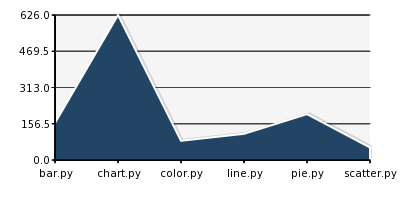
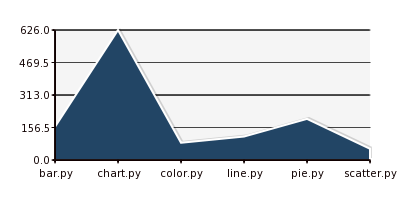
Big refactor about how the colors scheme are created and used. See #29

Changed region(s): [[0.03, 0.03, 0.93, 0.75], [0.03, 0.6, 0.15, 0.66]]

diff --git a/tests/color.py b/tests/color.py
@@ -1,4 +1,5 @@
-# Copyright (c) 2007-2008 by Lorenzo Gil Sanchez <lorenzo.gil.sanchez@gmail.com>
+# Copyright(c) 2007-2008 by Lorenzo Gil Sanchez <lorenzo.gil.sanchez@gmail.com>
+#              2009 by Yaco S.L. <lgs@yaco.es>
 #
 # This file is part of PyCha.
 #
@@ -18,6 +19,11 @@
 import unittest
 
 import pycha.color
+
+
+class SimpleColorScheme(pycha.color.ColorScheme):
+    pass
+
 
 class ColorTests(unittest.TestCase):
 
@@ -62,27 +68,25 @@ class ColorTests(unittest.TestCase):
         for i in range(3):
             self.assertAlmostEqual(c1[i], c2[i], precission)
 
-    def test_generateColorscheme(self):
-        keys = ('k1', 'k2', 'k3', 'k4')
-        color = '#ff0000'
-        scheme = pycha.color.generateColorscheme(color, keys)
-
-        self._assertColors(scheme['k1'], (1, 0, 0), 3)
-        self._assertColors(scheme['k2'], (1, 0.125, 0.125), 3)
-        self._assertColors(scheme['k3'], (1, 0.250, 0.250), 3)
-        self._assertColors(scheme['k4'], (1, 0.375, 0.375), 3)
-
-    def test_defaultColorScheme(self):
-        keys = ('k1', 'k2', 'k3', 'k4')
-        scheme1 = pycha.color.defaultColorscheme(keys)
-        color = pycha.color.DEFAULT_COLOR
-        scheme2 = pycha.color.generateColorscheme(color, keys)
-        self.assertEqual(scheme1, scheme2)
-
-    def test_colorScheme(self):
+    def test_basicColors(self):
         colors = ('red', 'green', 'blue', 'grey', 'black', 'darkcyan')
         for color in colors:
-            self.assert_(pycha.color.colorSchemes.has_key(color))
+            self.assert_(color in pycha.color.basicColors)
+
+    def test_ColorSchemeRegistry(self):
+        self.assertEquals(SimpleColorScheme,
+                          pycha.color.ColorScheme.getColorScheme('simple'))
+        self.assertEquals(None,
+                          pycha.color.ColorScheme.getColorScheme('foo'))
+
+    def test_GradientColorScheme(self):
+        keys = range(5)
+        scheme = pycha.color.GradientColorScheme(keys, "000000")
+        self._assertColors(scheme[0], (0.0, 0.0, 0.0), 3)
+        self._assertColors(scheme[1], (0.1, 0.1, 0.1), 3)
+        self._assertColors(scheme[2], (0.2, 0.2, 0.2), 3)
+        self._assertColors(scheme[3], (0.3, 0.3, 0.3), 3)
+        self._assertColors(scheme[4], (0.4, 0.4, 0.4), 3)
 
     def test_autoLighting(self):
         """This test ensures that the colors don't get to white too fast.
@@ -93,18 +97,22 @@ class ColorTests(unittest.TestCase):
         n = 50
         keys = range(n)
         color = '#ff0000'
-        scheme = pycha.color.generateColorscheme(color, keys)
+        scheme = pycha.color.GradientColorScheme(keys, color)
 
         # ensure that the last color is not completely white
         color = scheme[n-1]
-        self.assertAlmostEqual(color[0], 1.0, 4) # the red component was already 1
+
+        # the red component was already 1
+        self.assertAlmostEqual(color[0], 1.0, 4)
         self.assertNotAlmostEqual(color[1], 1.0, 4)
         self.assertNotAlmostEqual(color[2], 1.0, 4)
+
 
 def test_suite():
     return unittest.TestSuite((
         unittest.makeSuite(ColorTests),
     ))
+
 
 if __name__ == '__main__':
     unittest.main(defaultTest='test_suite')

diff --git a/pycha/color.py b/pycha/color.py
@@ -1,4 +1,5 @@
 # Copyright(c) 2007-2009 by Lorenzo Gil Sanchez <lorenzo.gil.sanchez@gmail.com>
+#              2009 by Yaco S.L. <lgs@yaco.es>
 #
 # This file is part of PyCha.
 #
@@ -52,35 +53,7 @@ def lighten(r, g, b, amount):
             clamp(0.0, 1.0, b + amount))
 
 
-def generateColorscheme(masterColor, keys):
-    """Generates a dictionary where the keys match the keys argument and
-    the values are colors derivated from the masterColor.
-
-    Each color is a lighter version of masterColor. This difference is
-    computed based on the number of keys.
-
-    The masterColor is given in a hex string format.
-    """
-    r, g, b = hex2rgb(masterColor)
-    light = 1.0 / (len(keys)*2)
-    return dict([(key, lighten(r, g, b, light * i))
-                 for i, key in enumerate(keys)])
-
-
-def defaultColorscheme(keys):
-    """Return the default color scheme (derived from a dark green)"""
-    return generateColorscheme(DEFAULT_COLOR, keys)
-
-
-def getColorscheme(color, keys):
-    """Get a color scheme from the six predefined ones or makes another
-    one if the color is not found
-    """
-    return generateColorscheme(colorSchemes.get(color, color), keys)
-
-
-# default colors for color schemes
-colorSchemes = dict(
+basicColors = dict(
     red='#6d1d1d',
     green=DEFAULT_COLOR,
     blue='#224565',
@@ -88,3 +61,53 @@ colorSchemes = dict(
     black='#000000',
     darkcyan='#305755',
     )
+
+
+class ColorSchemeMetaclass(type):
+    """This metaclass is used to autoregister all ColorScheme classes"""
+
+    def __new__(mcs, name, bases, dict):
+        klass = type.__new__(mcs, name, bases, dict)
+        klass.registerColorScheme()
+        return klass
+
+
+class ColorScheme(dict):
+    """A color scheme is a dictionary where the keys match the keys
+    constructor argument and the values are colors"""
+
+    __metaclass__ = ColorSchemeMetaclass
+    __registry__ = {}
+
+    def __init__(self, keys):
+        super(ColorScheme, self).__init__()
+
+    @classmethod
+    def registerColorScheme(cls):
+        key = cls.__name__.replace('ColorScheme', '').lower()
+        if key:
+            cls.__registry__[key] = cls
+
+    @classmethod
+    def getColorScheme(cls, name, default=None):
+        return cls.__registry__.get(name, default)
+
+
+class GradientColorScheme(ColorScheme):
+    """In this color scheme each color is a lighter version of initialColor.
+
+    This difference is computed based on the number of keys.
+
+    The initialColor is given in a hex string format.
+    """
+
+    def __init__(self, keys, initialColor=DEFAULT_COLOR):
+        super(GradientColorScheme, self).__init__(keys)
+        if initialColor in basicColors:
+            initialColor = basicColors[initialColor]
+
+        r, g, b = hex2rgb(initialColor)
+        light = 1.0 / (len(keys) * 2)
+
+        for i, key in enumerate(keys):
+            self[key] = lighten(r, g, b, light * i)

diff --git a/pycha/chart.py b/pycha/chart.py
@@ -20,8 +20,7 @@ import math
 
 import cairo
 
-from pycha.color import (defaultColorscheme, getColorscheme, hex2rgb,
-                         DEFAULT_COLOR)
+from pycha.color import ColorScheme, hex2rgb, DEFAULT_COLOR
 
 
 class Chart(object):
@@ -55,6 +54,8 @@ class Chart(object):
 
         # initialize the surface
         self._initSurface(surface)
+
+        self.colorScheme = None
 
     def addDataset(self, dataset):
         """Adds an object containing chart data to the storage hash"""
@@ -112,18 +113,17 @@ class Chart(object):
         cx.restore()
 
     def _setColorscheme(self):
-        """Sets the colorScheme used for the chart using the color in the
+        """Sets the colorScheme used for the chart using the
         options.colorScheme option
         """
-        scheme = self.options.colorScheme
+        name = self.options.colorScheme.name
         keys = self._getDatasetsKeys()
-        if isinstance(scheme, dict):
-            if not scheme:
-                self.options.colorScheme = defaultColorscheme(keys)
-        elif isinstance(scheme, basestring):
-            self.options.colorScheme = getColorscheme(scheme, keys)
-        else:
-            raise TypeError("Color scheme is invalid!")
+        colorSchemeClass = ColorScheme.getColorScheme(name, None)
+        if colorSchemeClass is None:
+            raise ValueError('Color scheme is invalid!')
+
+        kwargs = dict(self.options.colorScheme.args)
+        self.colorScheme = colorSchemeClass(keys, **kwargs)
 
     def _initSurface(self, surface):
         self.surface = surface
@@ -551,7 +551,7 @@ class Chart(object):
 
         def drawKey(key, x, y, text_height):
             cx.rectangle(x, y, bullet, bullet)
-            cx.set_source_rgb(*self.options.colorScheme[key])
+            cx.set_source_rgb(*self.colorScheme[key])
             cx.fill_preserve()
             cx.set_source_rgb(0, 0, 0)
             cx.stroke()
@@ -669,7 +669,10 @@ DEFAULT_OPTIONS = Option(
     shouldFill=True,
     barWidthFillFraction=0.75,
     pieRadius=0.4,
-    colorScheme=DEFAULT_COLOR,
+    colorScheme=Option(
+        name='gradient',
+        args=Option(initialColor=DEFAULT_COLOR),
+    ),
     title=None,
     titleFont='Tahoma',
     titleFontSize=12,

diff --git a/tests/chart.py b/tests/chart.py
@@ -132,21 +132,19 @@ class ChartTests(unittest.TestCase):
         self.assertEqual(ch.resetFlag, True)
 
     def test_colorscheme(self):
-        ch = pycha.chart.Chart(None, {'colorScheme': '#000000'})
+        options = {'colorScheme': {'name': 'gradient',
+                                   'args': {'initialColor': '#000000'}}}
+        ch = pycha.chart.Chart(None, options)
         dataset = (('dataset1', ([0, 1], [1, 1])), )
         ch.addDataset(dataset)
         ch._setColorscheme()
-        self.assert_(isinstance(ch.options.colorScheme, dict))
-        self.assertEqual(ch.options.colorScheme, {'dataset1': (0.0, 0.0, 0.0)})
+        self.assert_(isinstance(ch.colorScheme, dict))
+        self.assertEqual(ch.colorScheme, {'dataset1': (0.0, 0.0, 0.0)})
 
-        ch = pycha.chart.Chart(None, {'colorScheme': {}})
+        options = {'colorScheme': {'name': 'foo'}}
+        ch = pycha.chart.Chart(None, options)
         ch.addDataset(dataset)
-        ch._setColorscheme()
-        self.assert_(isinstance(ch.options.colorScheme, dict))
-        self.assertEqual(ch.options.colorScheme.keys(), ['dataset1'])
-
-        ch = pycha.chart.Chart(None, {'colorScheme': (0.0, 0.0, 0.0)})
-        self.assertRaises(TypeError, ch._setColorscheme)
+        self.assertRaises(ValueError, ch._setColorscheme)
 
     def test_updateXY(self):
         surface = cairo.ImageSurface(cairo.FORMAT_ARGB32, 500, 500)

diff --git a/pycha/line.py b/pycha/line.py
@@ -73,7 +73,7 @@ class LineChart(Chart):
                 cx.line_to(self.area.x, y)
                 cx.close_path()
             else:
-                cx.set_source_rgb(*self.options.colorScheme[storeName])
+                cx.set_source_rgb(*self.colorScheme[storeName])
                 cx.stroke()
 
 
@@ -92,7 +92,7 @@ class LineChart(Chart):
                     cx.restore()
 
                 # fill the line
-                cx.set_source_rgb(*self.options.colorScheme[storeName])
+                cx.set_source_rgb(*self.colorScheme[storeName])
                 preparePath(storeName)
                 cx.fill()
 

diff --git a/pycha/pie.py b/pycha/pie.py
@@ -111,7 +111,7 @@ class PieChart(Chart):
         cx.save()
         for slice in self.slices:
             if slice.isBigEnough():
-                cx.set_source_rgb(*self.options.colorScheme[slice.name])
+                cx.set_source_rgb(*self.colorScheme[slice.name])
                 if self.options.shouldFill:
                     slice.draw(cx, self.centerx, self.centery, self.radius)
                     cx.fill()

diff --git a/examples/stackedbarchart.py b/examples/stackedbarchart.py
@@ -36,7 +36,12 @@ def stackedBarChart(output, chartFactory):
             'baseColor': '#ffffff',
             'lineColor': '#444444',
         },
-        'colorScheme': 'red',
+        'colorScheme': {
+            'name': 'gradient',
+            'args': {
+                'initialColor': 'red',
+            },
+        },
         'legend': {
             'hide': True,
         },

diff --git a/examples/barchart.py b/examples/barchart.py
@@ -48,7 +48,12 @@ def barChart(output, chartFactory):
             'baseColor': '#ffffff',
             'lineColor': '#444444'
         },
-        'colorScheme': 'red',
+        'colorScheme': {
+            'name': 'gradient',
+            'args': {
+                'initialColor': 'red',
+            },
+        },
         'legend': {
             'hide': True,
         },

diff --git a/examples/scatterchart.py b/examples/scatterchart.py
@@ -35,7 +35,12 @@ def scatterplotChart(output):
             'color': '#eeeeff',
             'lineColor': '#444444'
         },
-        'colorScheme': 'blue',
+        'colorScheme': {
+            'name': 'gradient',
+            'args': {
+                'initialColor': 'blue',
+            },
+        },
         'legend': {
             'hide': True,
         },

diff --git a/pycha/scatter.py b/pycha/scatter.py
@@ -43,7 +43,7 @@ class ScatterplotChart(LineChart):
         cx.set_line_width(self.options.stroke.width)
         # TODO: self.options.stroke.shadow
         for key in self._getDatasetsKeys():
-            cx.set_source_rgb(*self.options.colorScheme[key])
+            cx.set_source_rgb(*self.colorScheme[key])
             preparePath(key)
             cx.stroke()
 

diff --git a/examples/linechart.py b/examples/linechart.py
@@ -43,7 +43,12 @@ def lineChart(output):
             'color': '#eeeeff',
             'lineColor': '#444444'
         },
-        'colorScheme': 'blue',
+        'colorScheme': {
+            'name': 'gradient',
+            'args': {
+                'initialColor': 'blue',
+            },
+        },
         'legend': {
             'hide': True,
         },

diff --git a/pycha/bar.py b/pycha/bar.py
@@ -85,7 +85,7 @@ class BarChart(Chart):
                 cx.rectangle(x, y, w, h)
 
                 if self.options.shouldFill:
-                    cx.set_source_rgb(*self.options.colorScheme[bar.name])
+                    cx.set_source_rgb(*self.colorScheme[bar.name])
                     cx.fill_preserve()
 
                 if not self.options.stroke.hide:
